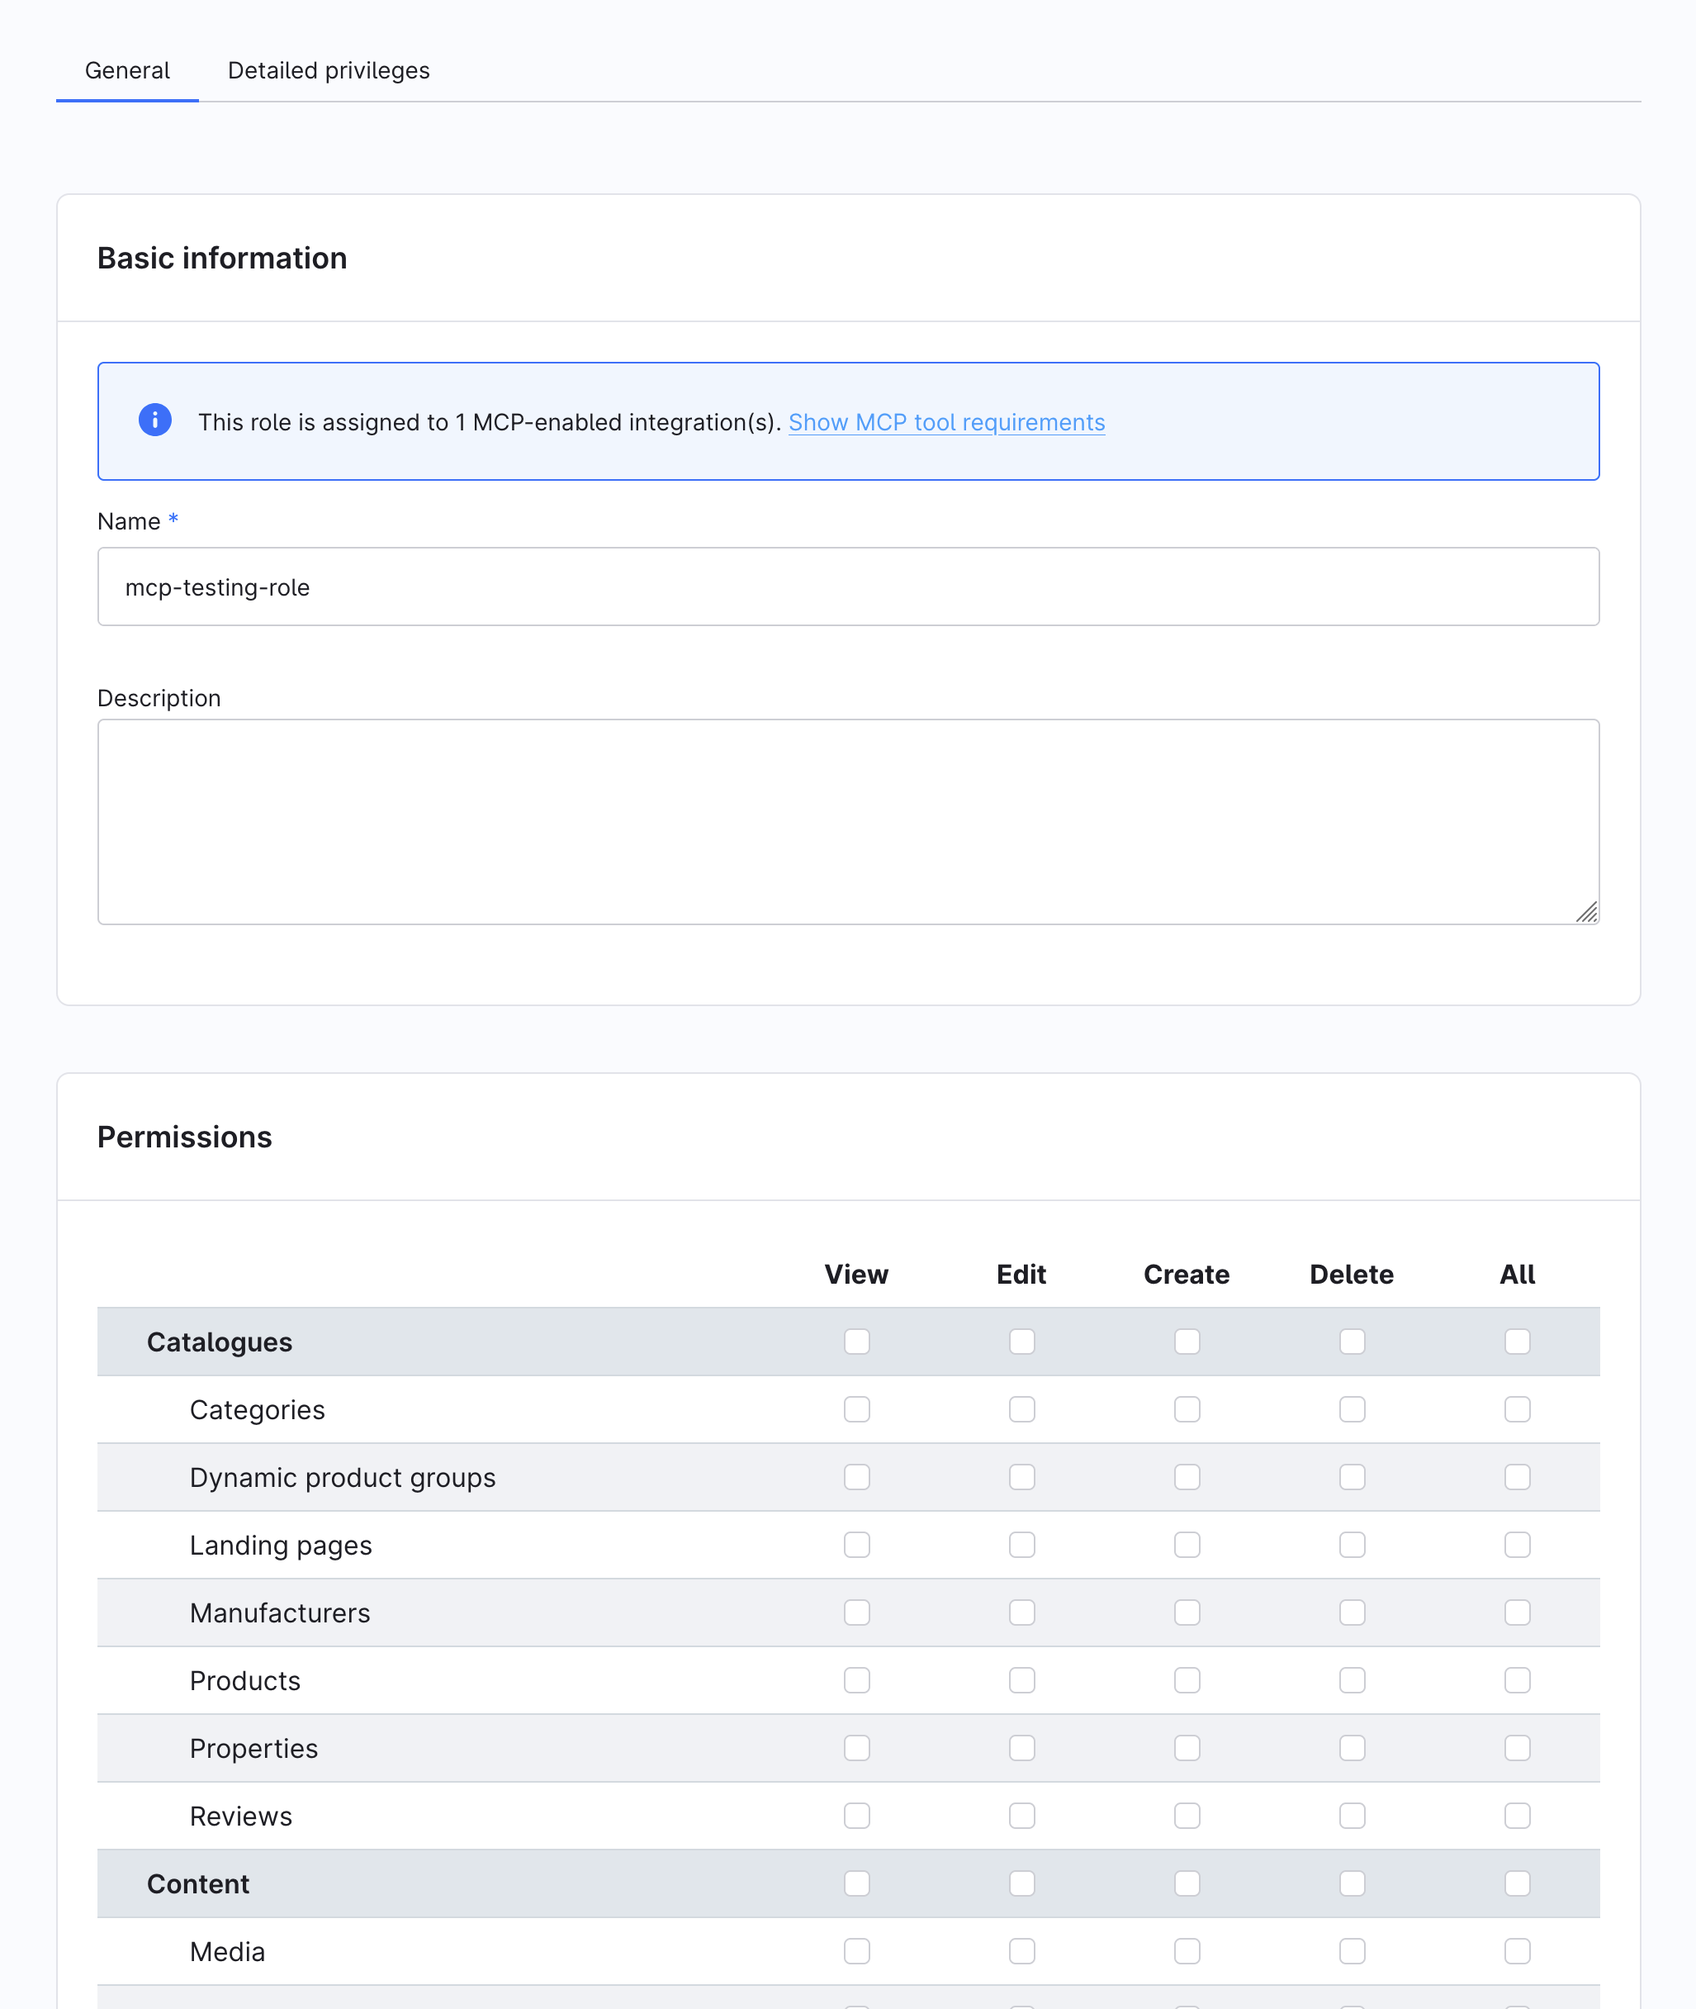
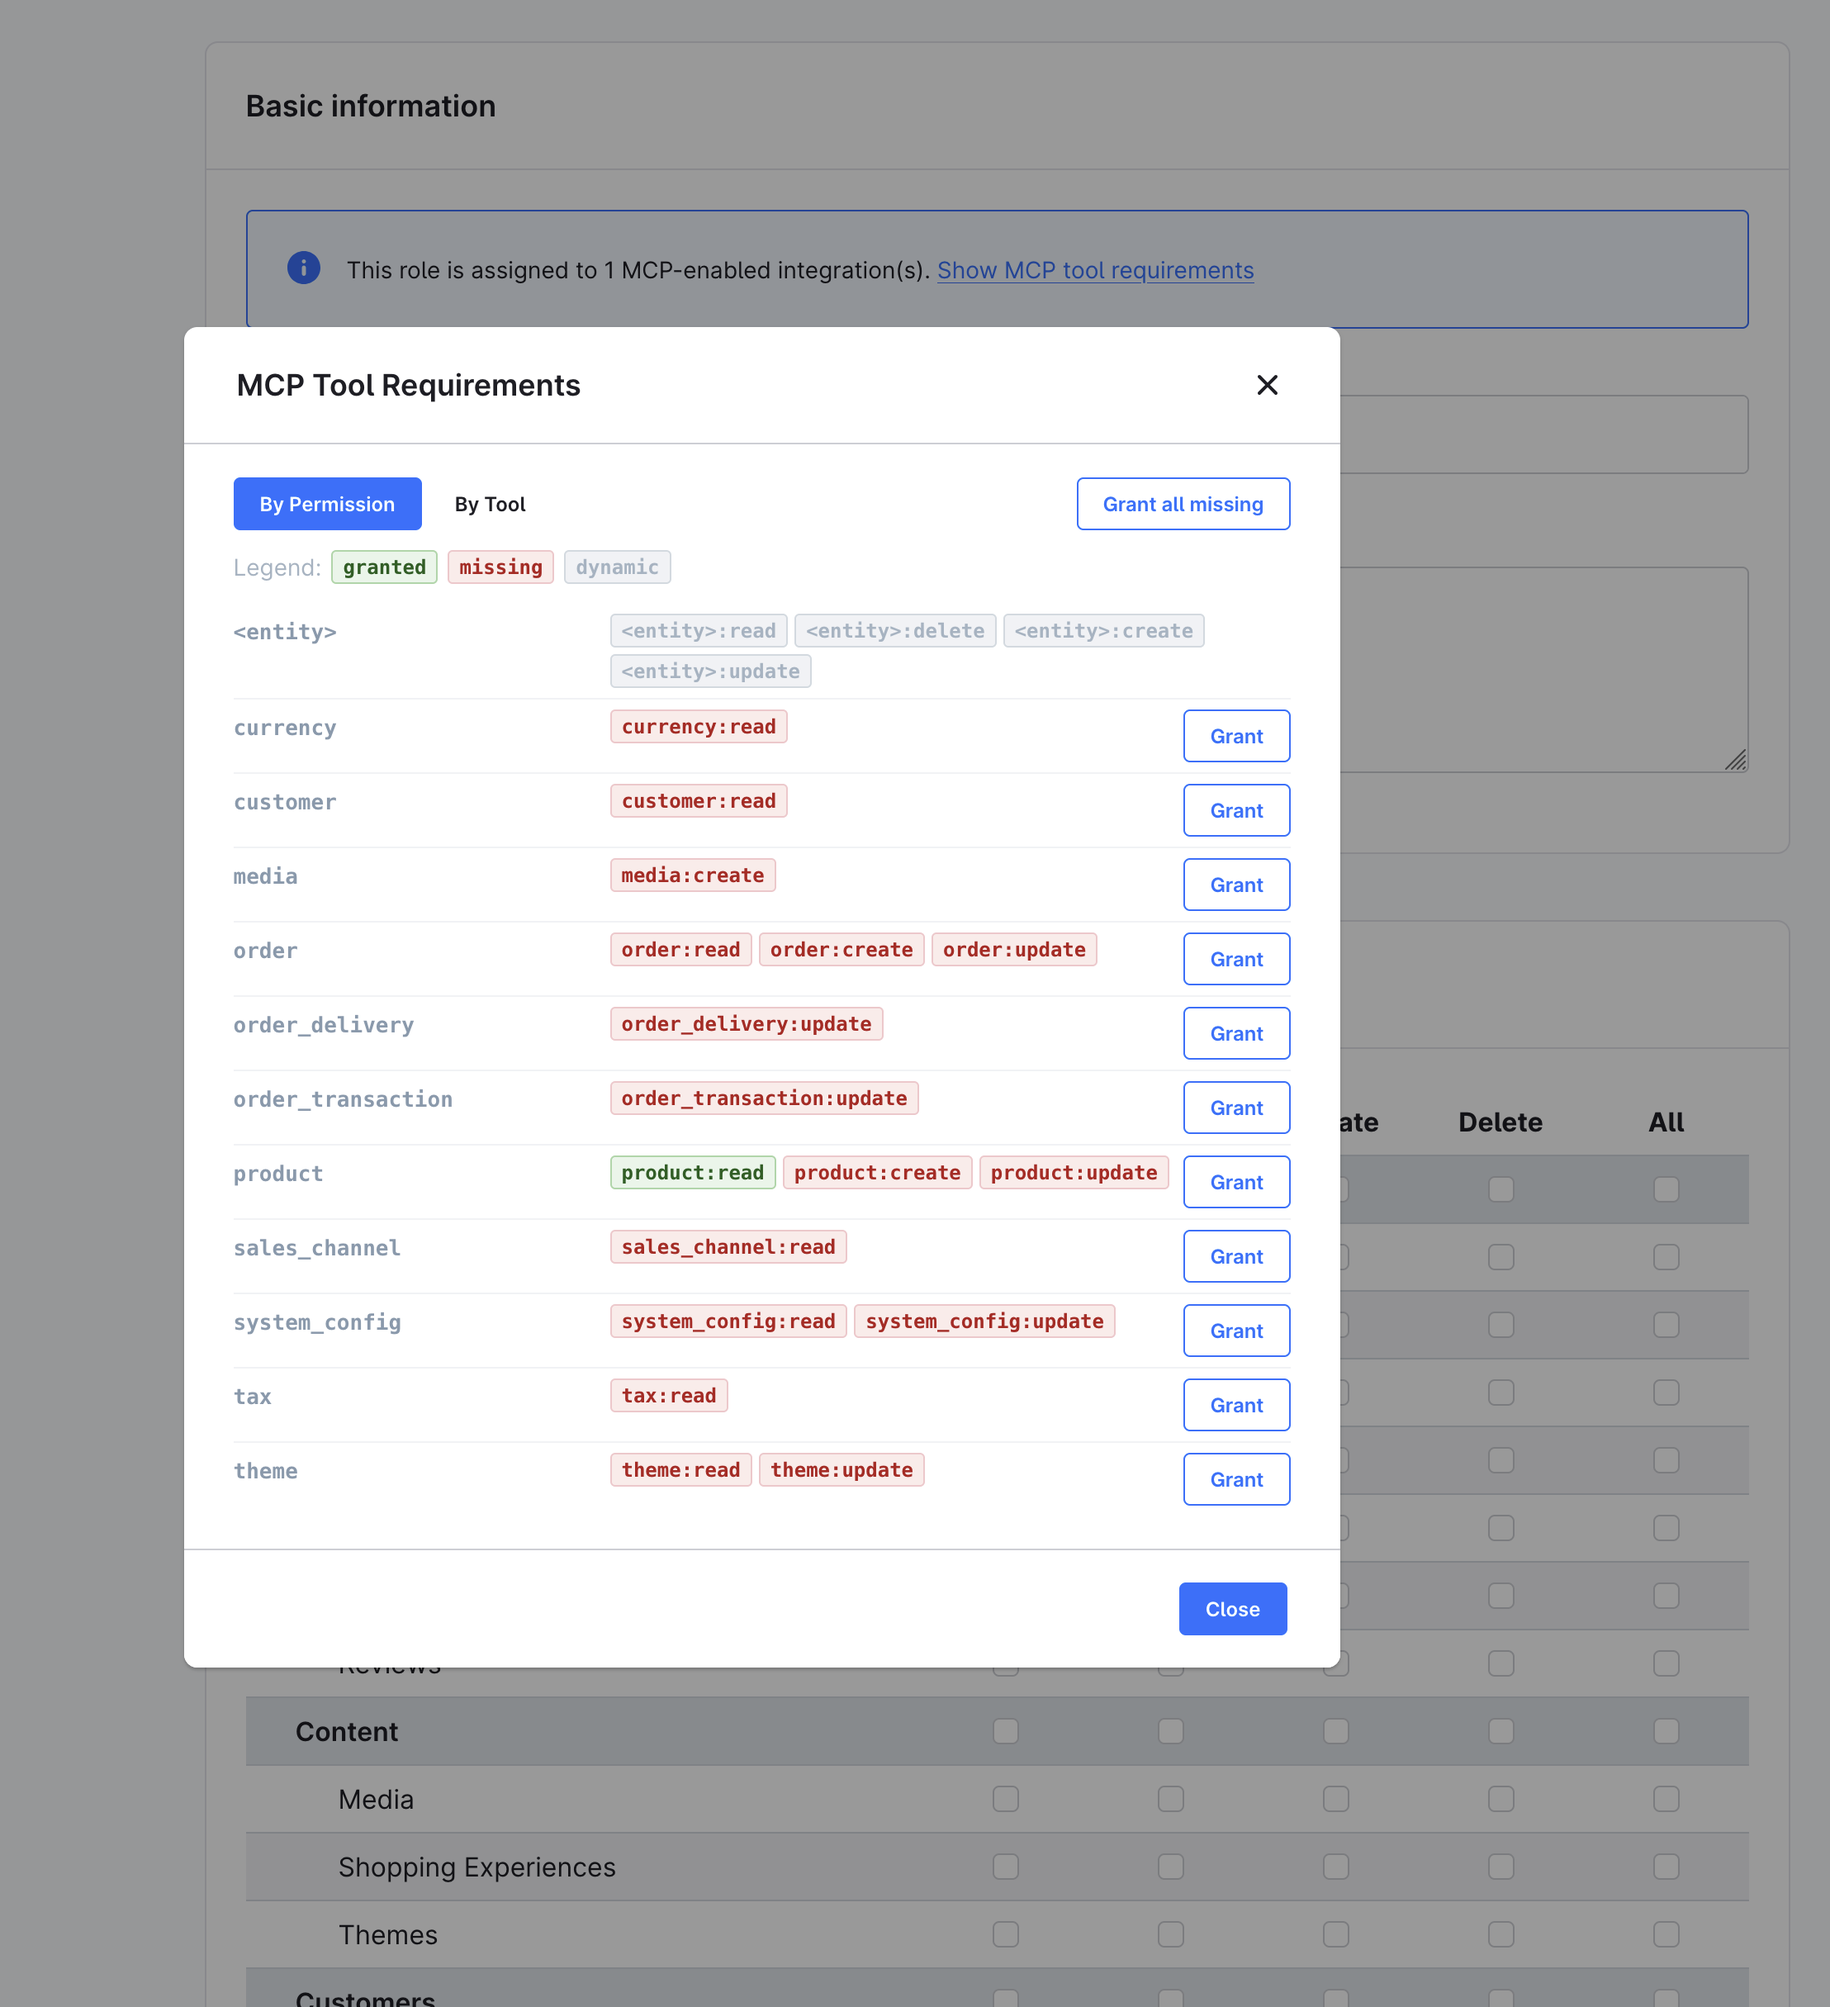
feat: update docs to changes

diff --git a/guides/development/tooling/mcp-server/best-practices.md b/guides/development/tooling/mcp-server/best-practices.md
@@ -57,7 +57,7 @@ Each integration sees only its allowed tools, resources, and prompts, so each AI
 
 Every registered tool also consumes tokens from the agent's context window for the entire session — not only when called. Each tool schema (name, description, parameters) costs roughly **550–1,400 tokens** depending on complexity. Some clients enforce their own hard caps (Cursor limits the total to 40 tools across all connected MCP servers). Scoped integrations with a small allowlist keep sessions fast and predictable.
 
-When everything is enabled, the modal also shows inline privilege gaps — a sign that the integration's role does not actually cover what its allowlist exposes:
+When everything is enabled, the modal also shows inline privilege gaps, meaning the integration's role does not actually cover what its allowlist exposes:
 
 <img src="../../../../assets/mcp-integrations-allowlist-selection-modal.png" alt="Allowlist modal with all tools selected, showing inline privilege warnings" width="500">
 
@@ -66,9 +66,13 @@ Strategies to reduce tool count within a single integration:
 - Use an `action` parameter to multiplex related operations into one tool (e.g., `shopware-theme-config` with `action: "get" | "update"`)
 - Use resources instead of tools for static reference data
 
-### Keep responses under 100 KB
+### Keep responses compact
 
-Shopware enforces a 100 KB response size limit per tool call. Tool responses are injected directly into the agent's context window: oversized responses consume a large share of the token budget and can cause some clients to drop or truncate the result entirely. The `McpToolResponse` base class includes a built-in size guard that rejects oversized responses before they reach the agent.
+Tool responses are injected directly into the agent's context window, so large responses consume a significant portion of the token budget.
+
+When a response exceeds 100 KB, `McpToolResponse` does not inline it. Instead it stores the payload in a session-scoped cache and returns a `shopware://tool-result/{uuid}` URI in `_meta.resourceUri`. The agent can fetch the full content via `resources/read`. The `_meta` block also carries `responseSize` and `note` explaining why the result was deferred. For responses above 20 KB (but under the cap), `_meta.responseSize` is included as a size hint so the agent can learn to use tighter parameters next time.
+
+The goal is still to keep responses small. Deferred resources still cost tokens when the agent fetches them, and some clients may not follow up automatically.
 
 - **Separate entity rows from aggregations.** Aggregations (especially `terms` or `date-histogram` with many buckets) can produce thousands of entries. Mixing them with entity rows in one response compounds the problem — use `shopware-entity-aggregate` for aggregations and `shopware-entity-search` for records, never both in one tool call.
 - **Use `McpEntityIncludes` in plugin tools.** If your tool returns DAL entity data via `JsonEntityEncoder`, use the `McpEntityIncludes` trait. It automatically strips unrequested associations, thumbnails, and translated duplicates, keeping responses compact without manual field filtering.

diff --git a/guides/development/tooling/mcp-server/configuration.md b/guides/development/tooling/mcp-server/configuration.md
@@ -112,11 +112,11 @@ All MCP tool operations respect the integration's Admin API ACL role. To restric
 
 The Admin UI surfaces two helpers for getting ACL right:
 
-- The **Role detail** page shows which integrations reference that role and highlights any privilege gaps:
+- The **Role detail** page shows a banner when the role is assigned to MCP-enabled integrations. Click **Show MCP tool requirements** to open the MCP Tool Requirements modal, which lists every privilege required by the allowed tools. Switch between **By Permission** (per-entity view with Grant buttons) and **By Tool** (per-tool view). Use **Grant all missing** to add the missing privileges in one click:
 
-<img src="../../../../assets/mcp-permissions-privilege-hint.png" alt="Users & Permissions hint showing missing privileges" width="700">
+<img src="../../../../assets/mcp-permissions-privilege-hint.png" alt="MCP Tool Requirements modal showing missing privileges by entity with Grant buttons" width="700">
 
-- The **Edit MCP Allowlist** modal shows a coverage warning when an assigned role is missing privileges required by an allowed tool:
+- The **Edit MCP Allowlist** modal shows a coverage warning when the assigned role is missing privileges required by an allowed tool:
 
 <img src="../../../../assets/mcp-allowlist-collapsed.png" alt="Privilege gap warnings on the Edit MCP Allowlist modal" width="500">
 
